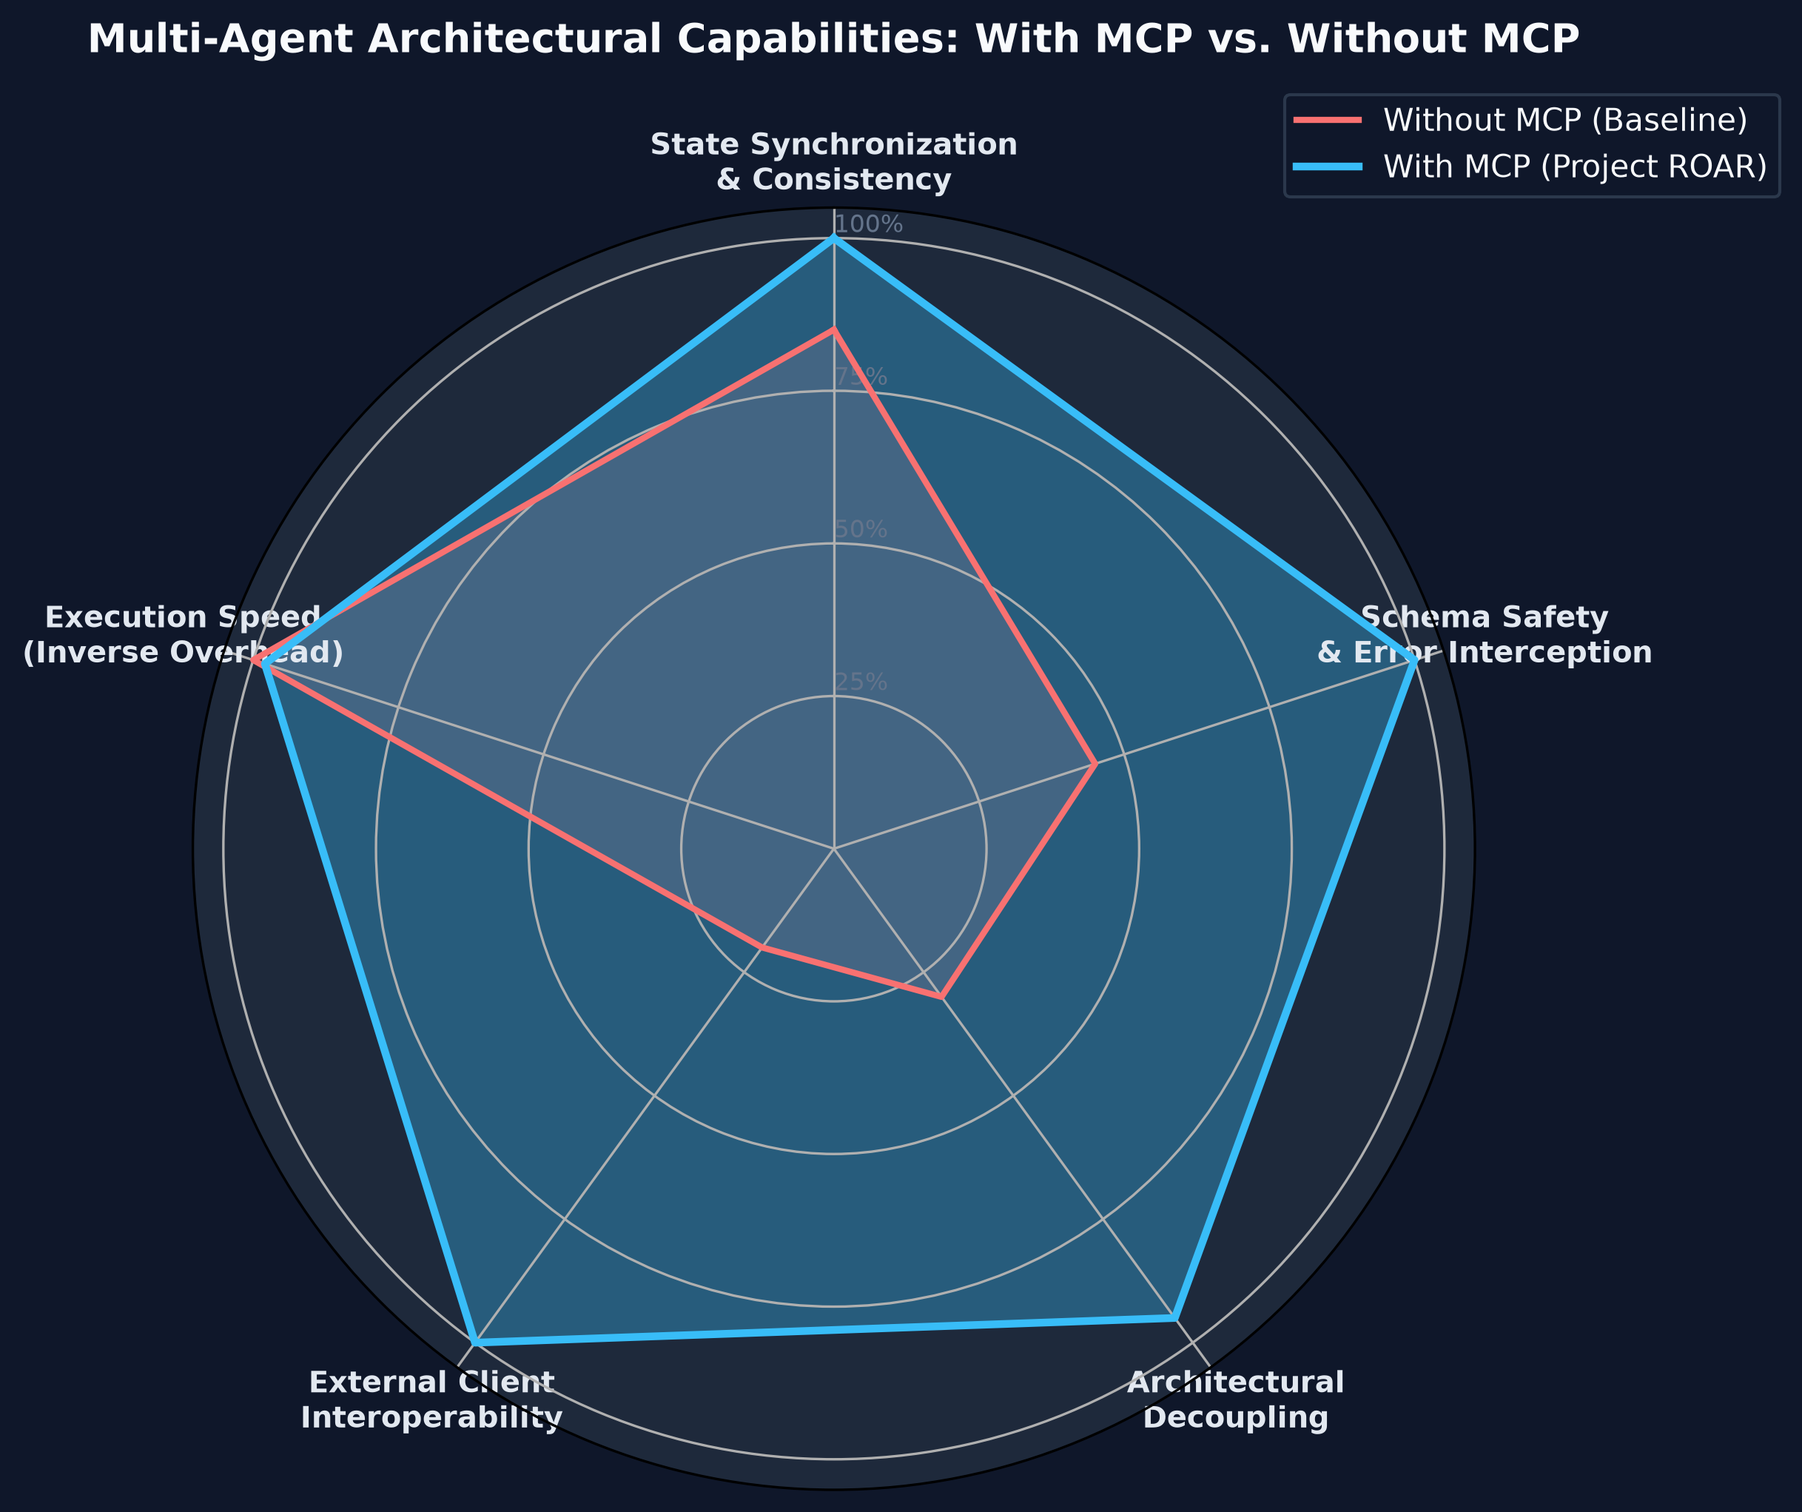
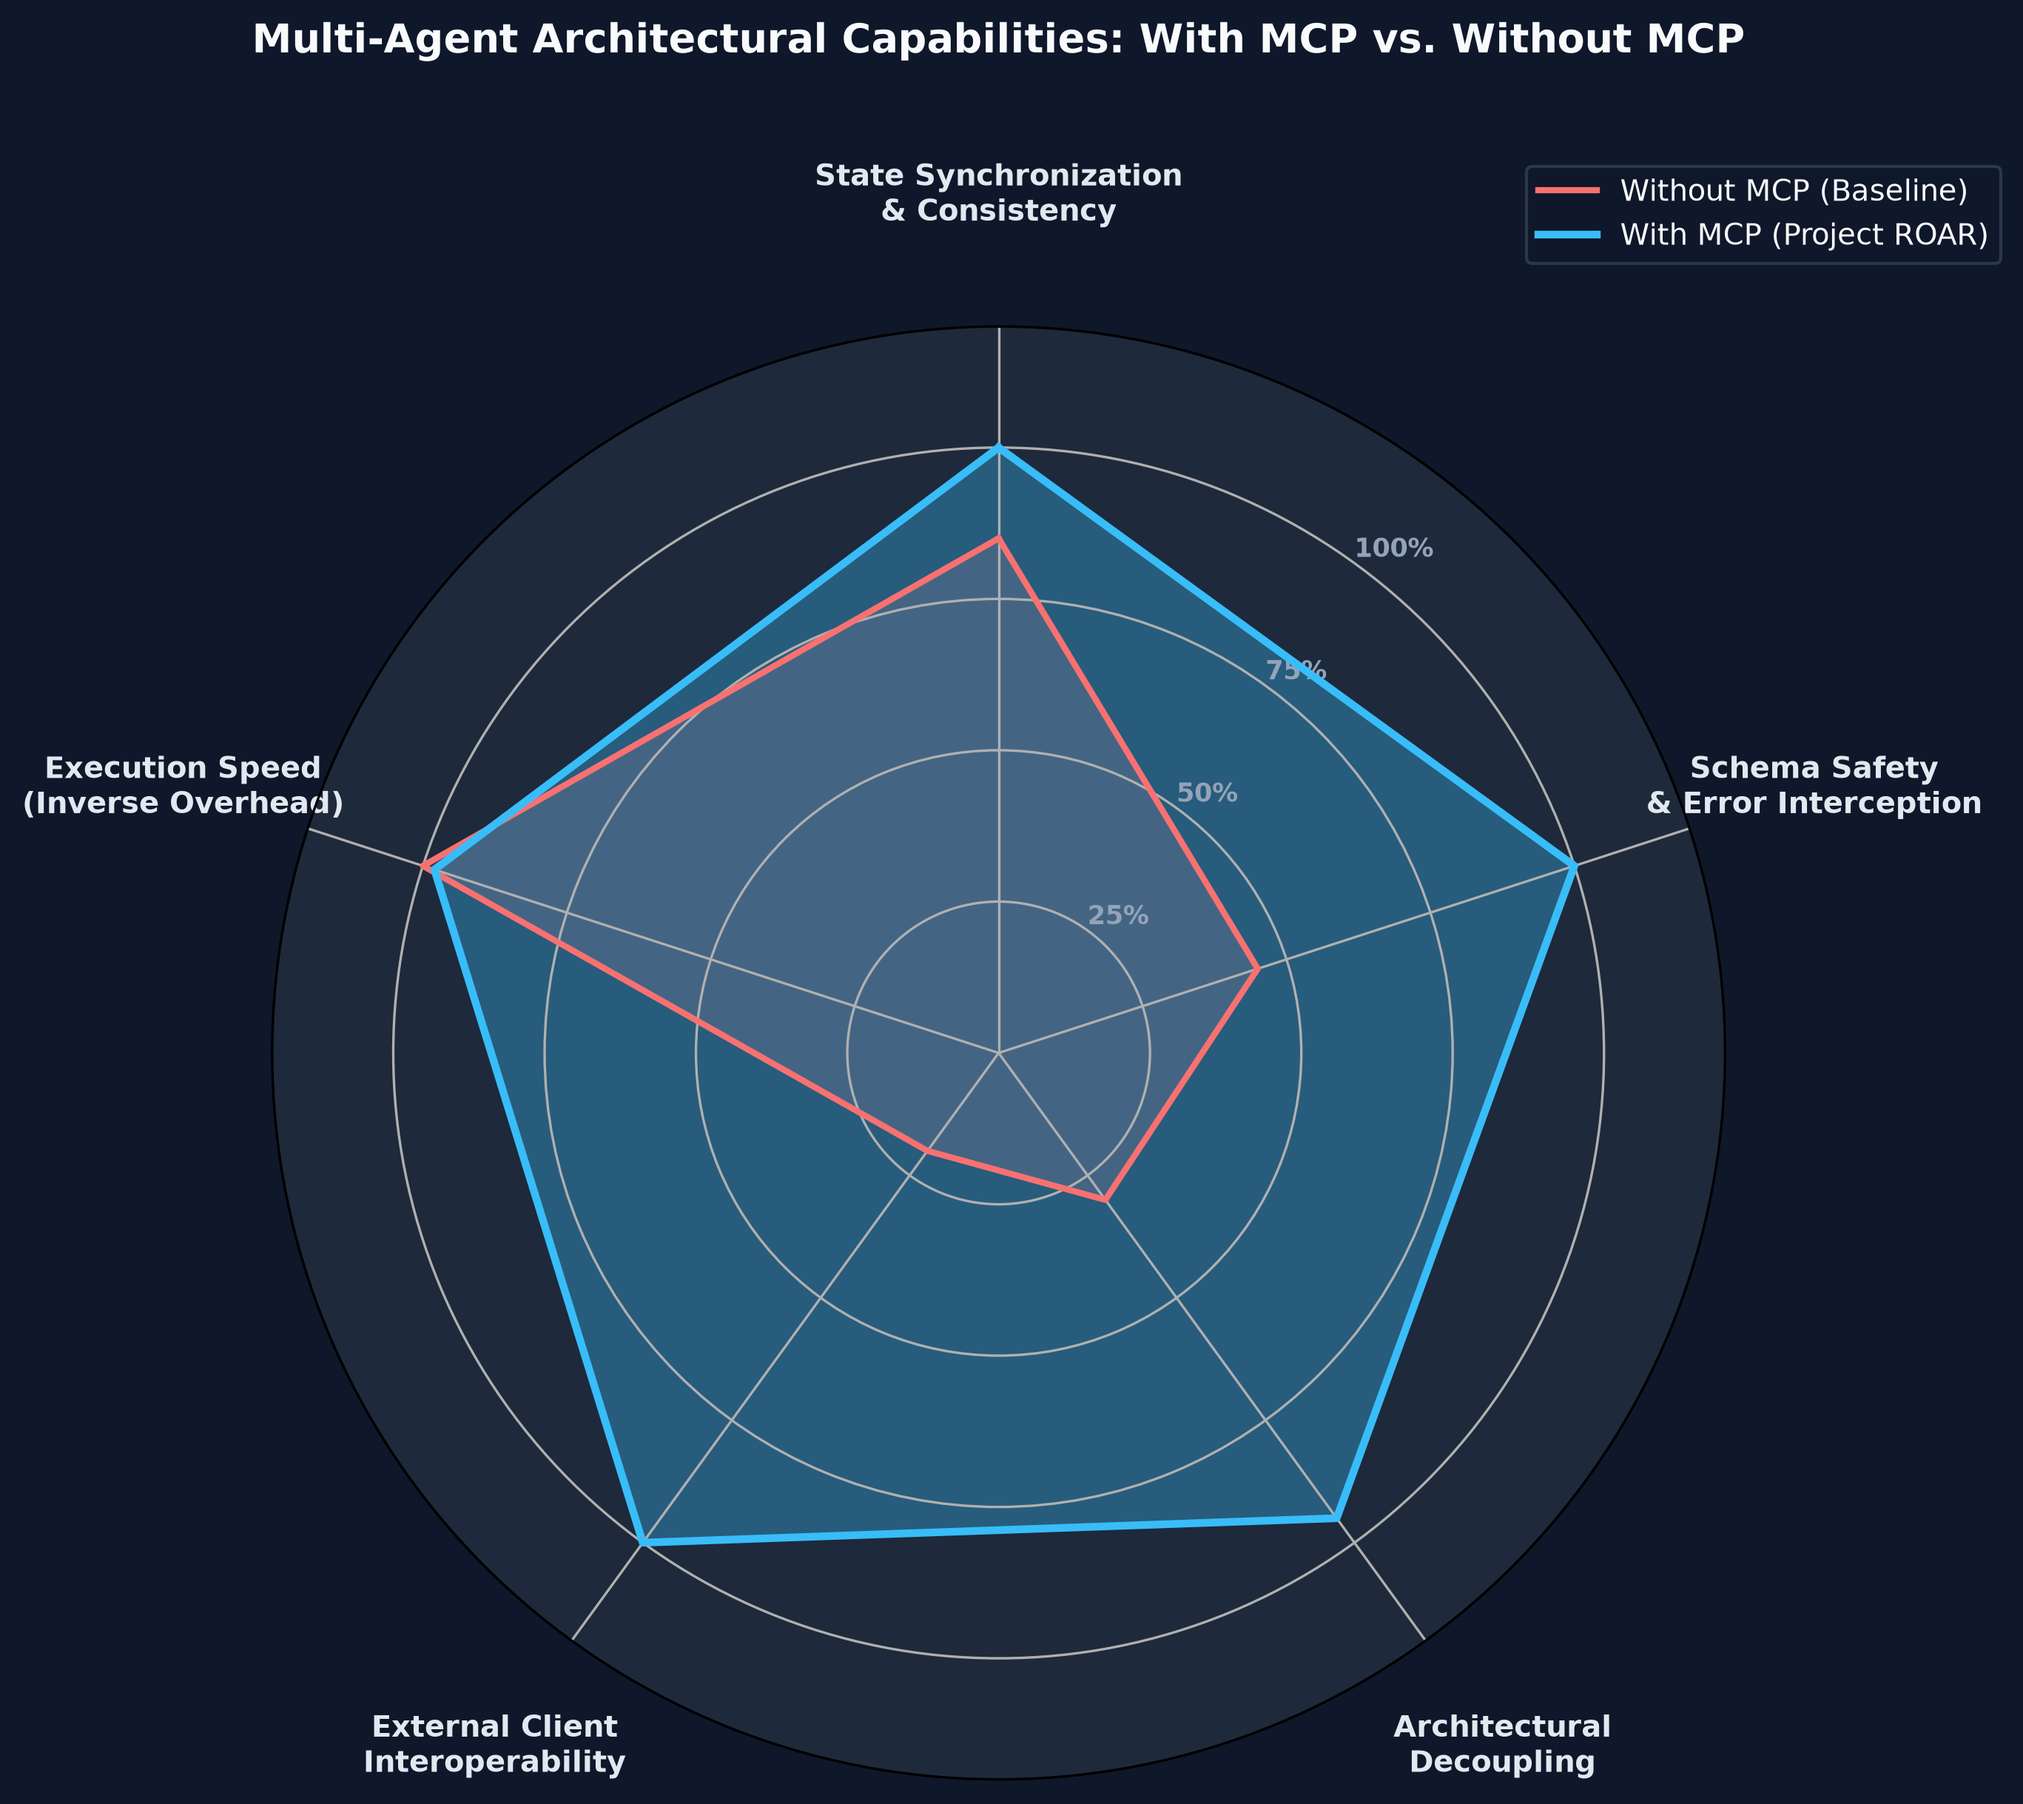
fix(plots): resolve text overlap and increase label padding in MCP radar chart

diff --git a/evaluation/plot_mcp_comparison.py b/evaluation/plot_mcp_comparison.py
@@ -88,17 +88,21 @@ def plot_mcp_radar():
     mcp_scores += mcp_scores[:1]
     angles += angles[:1]
 
-    fig, ax = plt.subplots(figsize=(7.5, 7.5), subplot_kw=dict(polar=True), facecolor='#0F172A')
+    fig, ax = plt.subplots(figsize=(8.5, 8.5), subplot_kw=dict(polar=True), facecolor='#0F172A')
     ax.set_facecolor('#1E293B')
 
     # Draw axes
     ax.set_theta_offset(np.pi / 2)
     ax.set_theta_direction(-1)
+    
+    # Category labels with generous padding to prevent overlap
     plt.xticks(angles[:-1], categories, color='#E2E8F0', size=9.5, fontweight='bold')
+    ax.tick_params(axis='x', pad=32)
 
-    ax.set_rlabel_position(0)
-    plt.yticks([25, 50, 75, 100], ["25%", "50%", "75%", "100%"], color="#64748B", size=8)
-    plt.ylim(0, 105)
+    # Radial tick labels positioned away from axis spokes and category text
+    ax.set_rlabel_position(36)
+    plt.yticks([25, 50, 75, 100], ["25%", "50%", "75%", "100%"], color="#94A3B8", size=8.5, fontweight='bold')
+    plt.ylim(0, 120)
 
     # Plot Direct
     ax.plot(angles, direct_scores, linewidth=2, linestyle='solid', label='Without MCP (Baseline)', color='#F87171')
@@ -108,8 +112,8 @@ def plot_mcp_radar():
     ax.plot(angles, mcp_scores, linewidth=2.5, linestyle='solid', label='With MCP (Project ROAR)', color='#38BDF8')
     ax.fill(angles, mcp_scores, '#38BDF8', alpha=0.35)
 
-    plt.title('Multi-Agent Architectural Capabilities: With MCP vs. Without MCP', size=13, color='#F8FAFC', weight='bold', pad=25)
-    plt.legend(loc='upper right', bbox_to_anchor=(1.25, 1.1), facecolor='#0F172A', edgecolor='#334155', labelcolor='#F8FAFC')
+    plt.title('Multi-Agent Architectural Capabilities: With MCP vs. Without MCP', size=13, color='#F8FAFC', weight='bold', pad=35)
+    plt.legend(loc='upper right', bbox_to_anchor=(1.20, 1.12), facecolor='#0F172A', edgecolor='#334155', labelcolor='#F8FAFC', fontsize=9.5)
 
     out_path = PLOTS_DIR / "figure_mcp_radar_comparison.png"
     plt.savefig(out_path, dpi=300, facecolor=fig.get_facecolor(), bbox_inches='tight')
